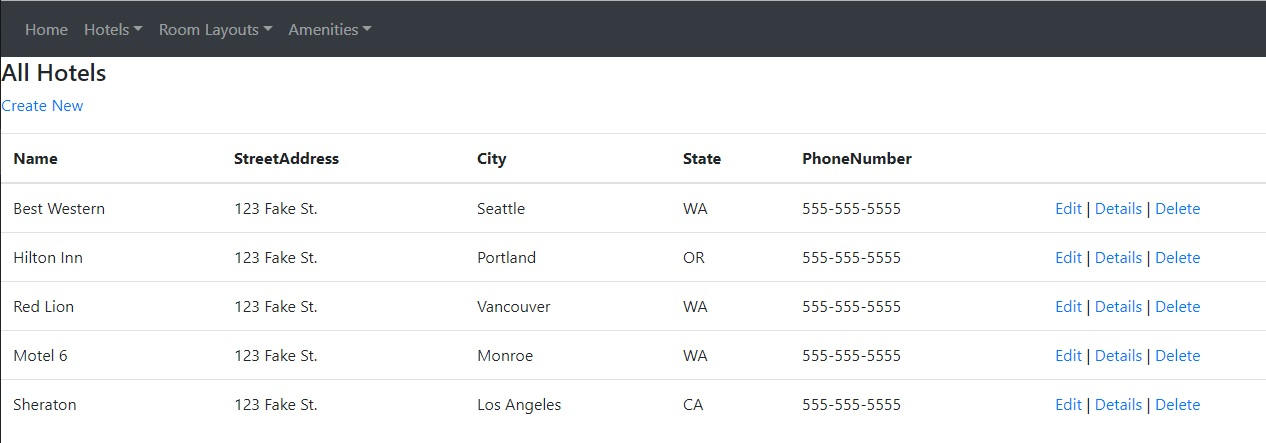
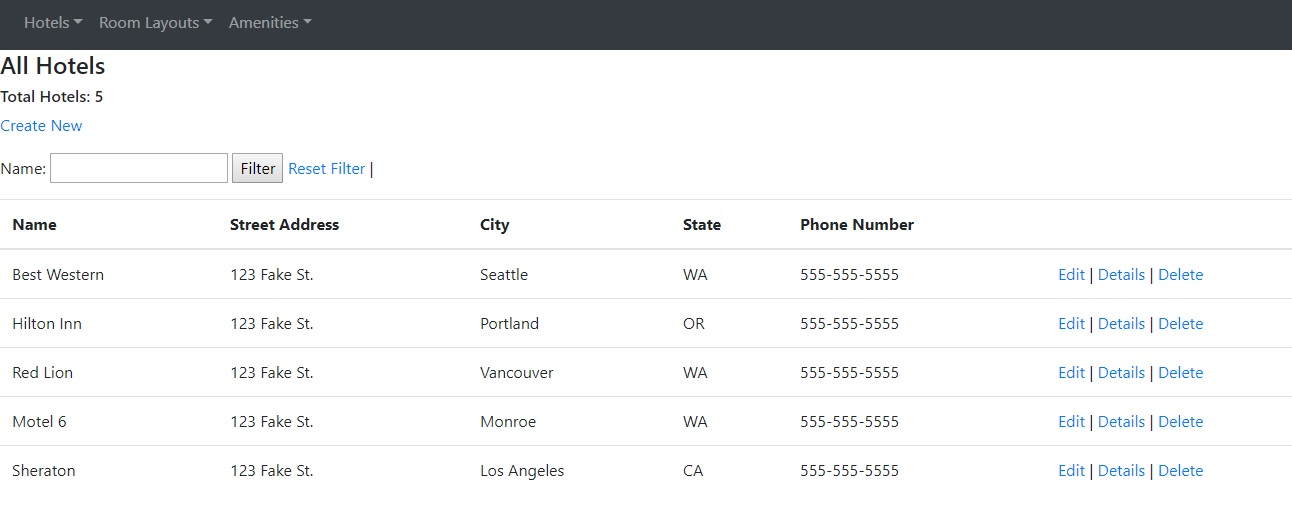
Removes appsettings.json, updates some html, and creates a ProductionConnection environment for live deployment.

diff --git a/AsyncInn/AsyncInn/Startup.cs b/AsyncInn/AsyncInn/Startup.cs
@@ -17,18 +17,26 @@ namespace AsyncInn
     public class Startup
     {
         public IConfiguration Configuration { get; }
+        public IHostingEnvironment Environment { get; }
 
-        public Startup(IConfiguration configuration)
+        public Startup(IConfiguration configuration, IHostingEnvironment environment)
         {
-            Configuration = configuration;
+            Environment = environment;
+            var builder = new ConfigurationBuilder().AddEnvironmentVariables();
+            builder.AddUserSecrets<Startup>();
+            Configuration = builder.Build();
         }
 
         public void ConfigureServices(IServiceCollection services)
         {
             services.AddMvc();
 
+            string connectionString = Environment.IsDevelopment()
+                                      ? Configuration["ConnectionStrings:DefaultConnection"]
+                                      : Configuration["ConnectionStrings:ProductionConnection"];
+
             services.AddDbContext<AsyncInnDbContext>(options =>
-                options.UseSqlServer(Configuration.GetConnectionString("DefaultConnection")));
+            options.UseSqlServer(connectionString));
 
             services.AddScoped<IHotelManager, HotelService>();
             services.AddScoped<IRoomManager, RoomService>();

diff --git a/README.md b/README.md
@@ -5,12 +5,14 @@
 ------------------------------
 
 ## Description
-A simple, built from scratch MVC application with a database for a ficitonal hotel.
+A simple, built from scratch MVC application with a database for a ficitonal hotel chain.  The user has the ability to view, add, edit or delete any Hotels, Room Layouts, or Amenities in the chain's database.  The user can also assign Rooms to Hotels, and assign Amenities to Room Layouts.
 
 ------------------------------
 
 ## Getting Started
-Clone this repository to your local machine.
+The site can be accessed here: https://andy-asyncinn.azurewebsites.net/
+
+To download the code for yourself, clone this repository to your local machine.
 ```
 $ git clone https://github.com/Roketsu86/AsyncInn.git
 ```
@@ -27,14 +29,17 @@ Then select and open ```AsyncInn.sln```
 
 ## Visuals
 
-##### Application Start
-![Image 1](https://via.placeholder.com/750x500)
-##### Using the Application
-![Image 1](https://via.placeholder.com/750x500)
-##### Application End
-![Image 1](https://via.placeholder.com/750x500)
+##### Hotels List
+![Hotels List Index](https://via.placeholder.com/750x500)
+##### Creating a new Room
+![Creating a new Room](https://via.placeholder.com/750x500)
+##### Viewing Hotel Details
+![Viewing Hotel Details](https://via.placeholder.com/750x500)
 
 ------------------------------
 
 ## Change Log
+1.3: *First live deployment!* 14 April 2019
+1.2: *Additional minor features and CSS* 13 April 2019
+1.1: *Adjusted all content to the MVC Repository Design Pattern* 10 April 2019
 1.0: *Initialization* - 04 April 2019
